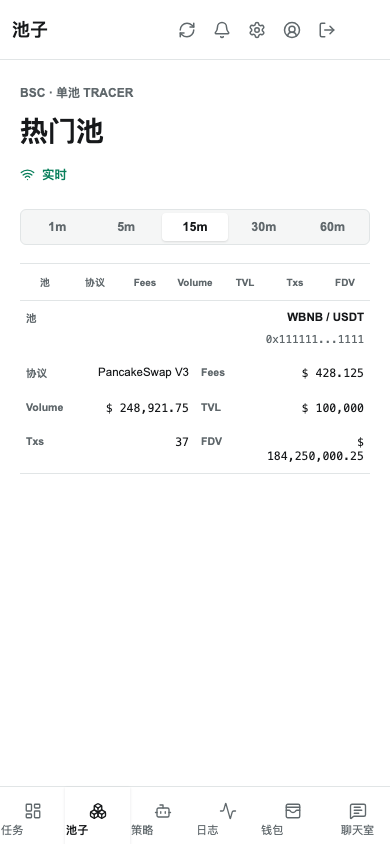
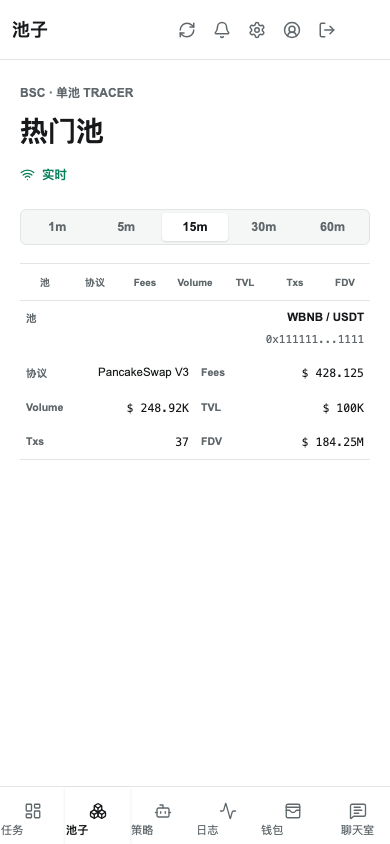
chore: auto-sync 2026-08-16 05:49:45 +0800

Changed region(s): [[0.6769, 0.4621, 0.9538, 0.5545], [0.3077, 0.4621, 0.4923, 0.4929]]

diff --git a/apps/web/src/pools-page.tsx b/apps/web/src/pools-page.tsx
@@ -62,6 +62,43 @@ function decimalDisplay(value: string | null, prefix = "", fractionDigits = 6): 
   return `${prefix}${grouped}${fraction ? `.${fraction}` : ""}`;
 }
 
+function compactDecimalDisplay(value: string | null, prefix = ""): string {
+  if (value === null) return "--";
+  const decimal = new Decimal(value);
+  for (const { divisor, suffix } of [
+    { divisor: new Decimal("1000000000"), suffix: "B" },
+    { divisor: new Decimal("1000000"), suffix: "M" },
+    { divisor: new Decimal("1000"), suffix: "K" },
+  ]) {
+    if (decimal.abs().greaterThanOrEqualTo(divisor)) {
+      return `${prefix}${decimal
+        .dividedBy(divisor)
+        .toDecimalPlaces(2, Decimal.ROUND_HALF_EVEN)
+        .toFixed()}${suffix}`;
+    }
+  }
+  return decimalDisplay(value, prefix);
+}
+
+function NumericValue({
+  fractionDigits,
+  label,
+  prefix = "",
+  value,
+}: {
+  fractionDigits?: number;
+  label: string;
+  prefix?: string;
+  value: string | null;
+}) {
+  return (
+    <td className="numeric-value" data-label={label} title={value ?? undefined}>
+      <span className="numeric-full">{decimalDisplay(value, prefix, fractionDigits)}</span>
+      <span className="numeric-compact">{compactDecimalDisplay(value, prefix)}</span>
+    </td>
+  );
+}
+
 function poolIdentity(row: MarketPoolRow): string {
   const value = row.poolAddress ?? row.poolId ?? "unknown";
   return value.length > 14 ? `${value.slice(0, 8)}...${value.slice(-4)}` : value;
@@ -123,25 +160,11 @@ function PoolTable({ rows }: { rows: readonly MarketPoolRow[] }) {
                   <span className="pool-address">{poolIdentity(row)}</span>
                 </td>
                 <td data-label="协议">{protocolName(row.protocol)}</td>
-                <td data-label="Fees" className="numeric-value" title={row.feesUsd ?? undefined}>
-                  {decimalDisplay(row.feesUsd, "$ ")}
-                </td>
-                <td
-                  data-label="Volume"
-                  className="numeric-value"
-                  title={row.volumeUsd ?? undefined}
-                >
-                  {decimalDisplay(row.volumeUsd, "$ ")}
-                </td>
-                <td data-label="TVL" className="numeric-value" title={row.tvlUsd ?? undefined}>
-                  {decimalDisplay(row.tvlUsd, "$ ")}
-                </td>
-                <td data-label="Txs" className="numeric-value" title={row.transactionCount}>
-                  {decimalDisplay(row.transactionCount, "", 0)}
-                </td>
-                <td data-label="FDV" className="numeric-value" title={row.fdvUsd ?? undefined}>
-                  {decimalDisplay(row.fdvUsd, "$ ")}
-                </td>
+                <NumericValue label="Fees" prefix="$ " value={row.feesUsd} />
+                <NumericValue label="Volume" prefix="$ " value={row.volumeUsd} />
+                <NumericValue label="TVL" prefix="$ " value={row.tvlUsd} />
+                <NumericValue fractionDigits={0} label="Txs" value={row.transactionCount} />
+                <NumericValue label="FDV" prefix="$ " value={row.fdvUsd} />
               </tr>
             );
           })}

diff --git a/apps/web/src/styles.css b/apps/web/src/styles.css
@@ -678,6 +678,10 @@ input:focus-visible,
   font-variant-numeric: tabular-nums;
 }
 
+.numeric-compact {
+  display: none;
+}
+
 .pools-loading,
 .pools-empty,
 .pools-error {
@@ -2054,6 +2058,15 @@ html[data-theme="dark"] .chain-operation-success {
 
   .pool-address {
     grid-column: 2;
+  }
+
+  .numeric-full {
+    display: none;
+  }
+
+  .numeric-compact {
+    display: inline;
+    white-space: nowrap;
   }
 
   .interface-section-heading {
